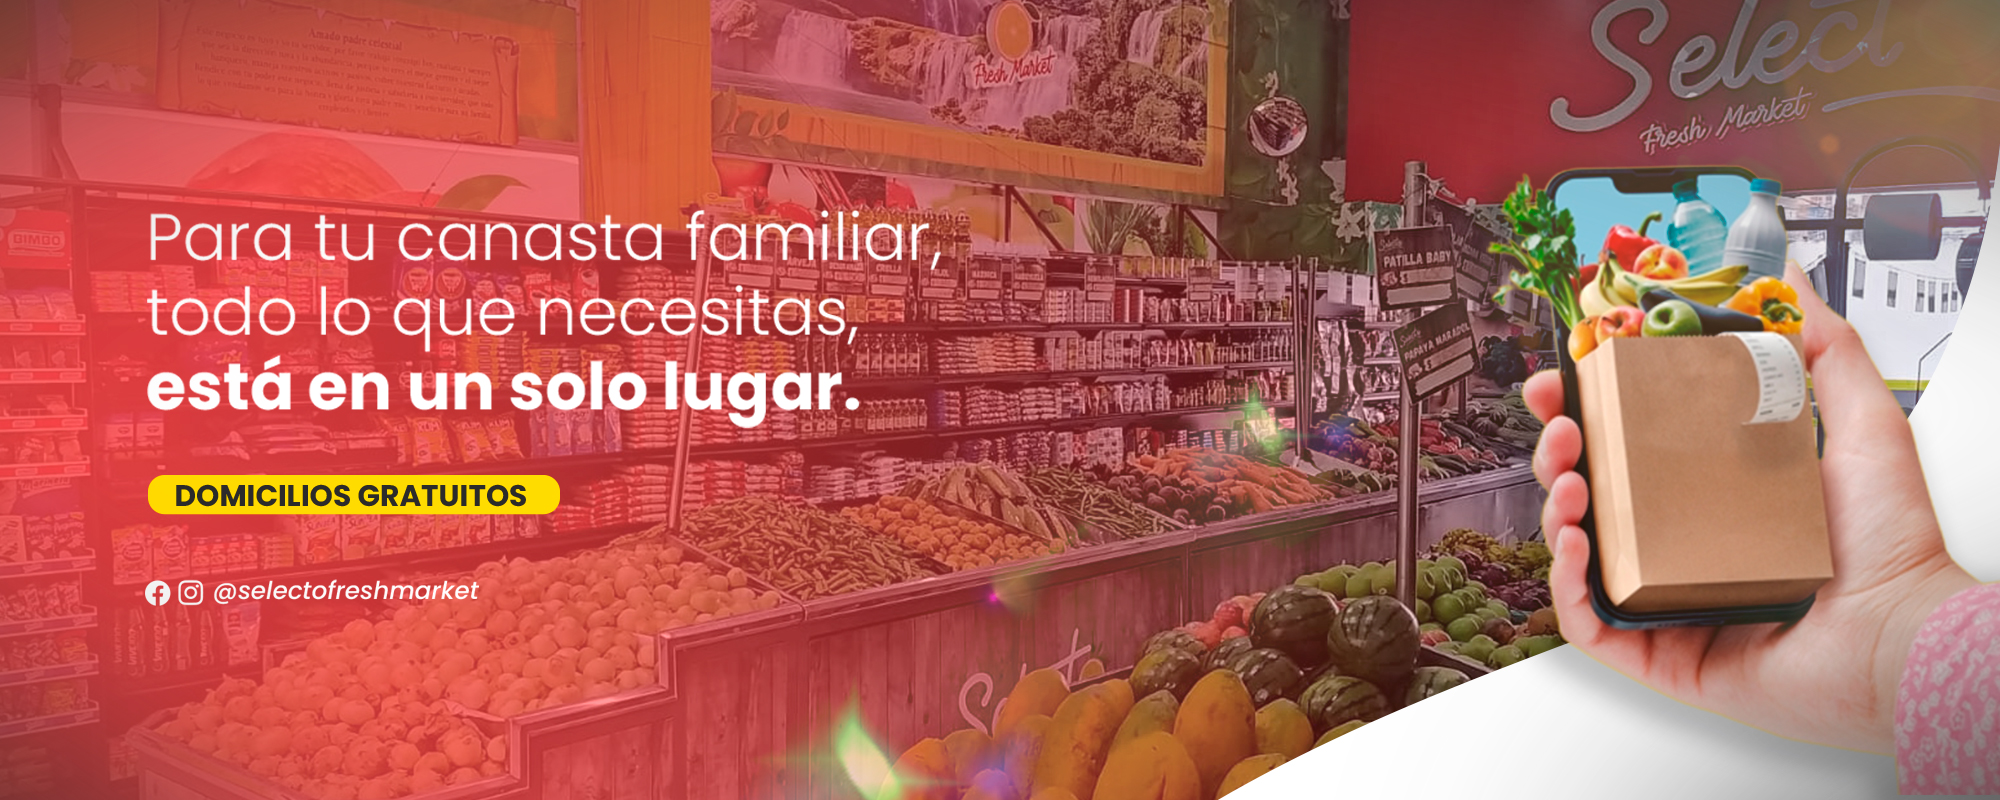
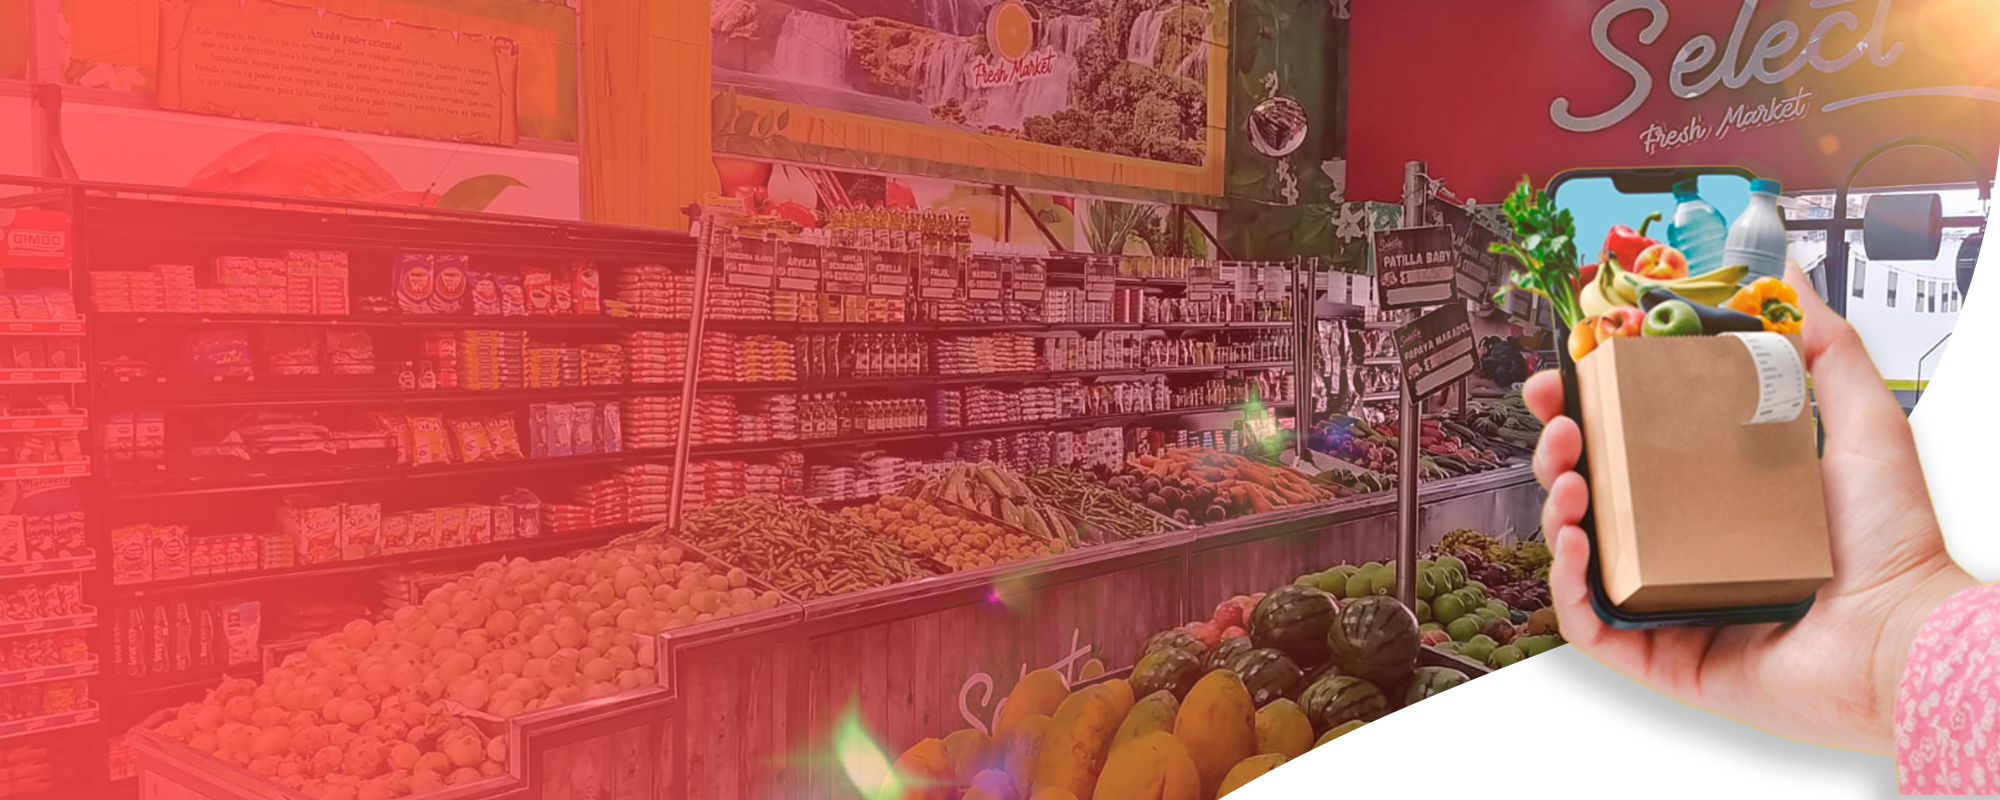
deploy

diff --git a/css/style.css b/css/style.css
@@ -173,10 +173,23 @@ section{
   flex-wrap: wrap;
   background:url(../images/banner.jpg) no-repeat;
   background-size: cover;
+  position: relative;
   background-position: right;
+  height: 100vh;
   text-align: center;
   padding:5rem 2rem;
-  height: 100vh;
+  z-index: 1;
+}
+
+.home::after {
+  content: "";
+  position: absolute;
+  top: 0;
+  left: 0;
+  width: 100%;
+  height: 100%;
+  background: linear-gradient(to right top, #c75c5eb8, #5813131c, #48010175, #7b20209c, #763732);
+  z-index: -1;
 }
 
 .home .image{
@@ -185,7 +198,8 @@ section{
 }
 
 .home .image img{
-  width:100%;
+  width: 60%;
+  height: 60%;
 }
 
 .home .content{
@@ -1065,6 +1079,11 @@ input.whats-input[type=text]:focus {
     font-size: 55%;
   }
 
+  .home .image img {
+    width: 70%;
+    height: 70%;
+  }
+
 
 }
 
@@ -1085,6 +1104,13 @@ input.whats-input[type=text]:focus {
 }
 
 @media(max-width:768px){
+  .home .image img {
+    width: 80%;
+    height: 80%;
+  }
+  .home::after {
+    background: linear-gradient(to right top, #c75c5edb, #5813139c, #4801019c, #7b2020c2, #763732);
+  }
   .blogs .box-container .box .image {
     height: 100%;
   }
@@ -1180,6 +1206,10 @@ input.whats-input[type=text]:focus {
 }
 
 @media(max-width:450px){
+  .home .image img {
+    width: 100%;
+    height: 100%;
+  }
 
   html{
     font-size: 50%;

diff --git a/index.html b/index.html
@@ -37,6 +37,7 @@
             </div>
             <nav class="navbar">
                 <a href="#home">Inicio</a>
+                <a href="#about">Nosotros</a>
                 <a href="#product">Productos</a>
                 <a href="#contact">Encuentranos</a>
                 <a href="#blogs">Noticias</a>
@@ -48,14 +49,9 @@
 
     <!-- home section starts  -->
     <section class="home" id="home">
-        <!-- <div class="image">
-        <img src="images/letrero-market.png" alt="">
-    </div> -->
-        <!-- <div class="content">
-        <span>Los mejores productos del mercado</span>
-        <h3>Sus productos de necesidad diaria</h3>
-        <a href="https://wa.me/573158902557?" target="_blank" class="btn">Pide a domicilio</a>
-    </div> -->
+        <div class="image">
+            <img src="images/svg/text-header.svg" alt="">
+        </div>
     </section>
     <!-- home section ends -->
 
